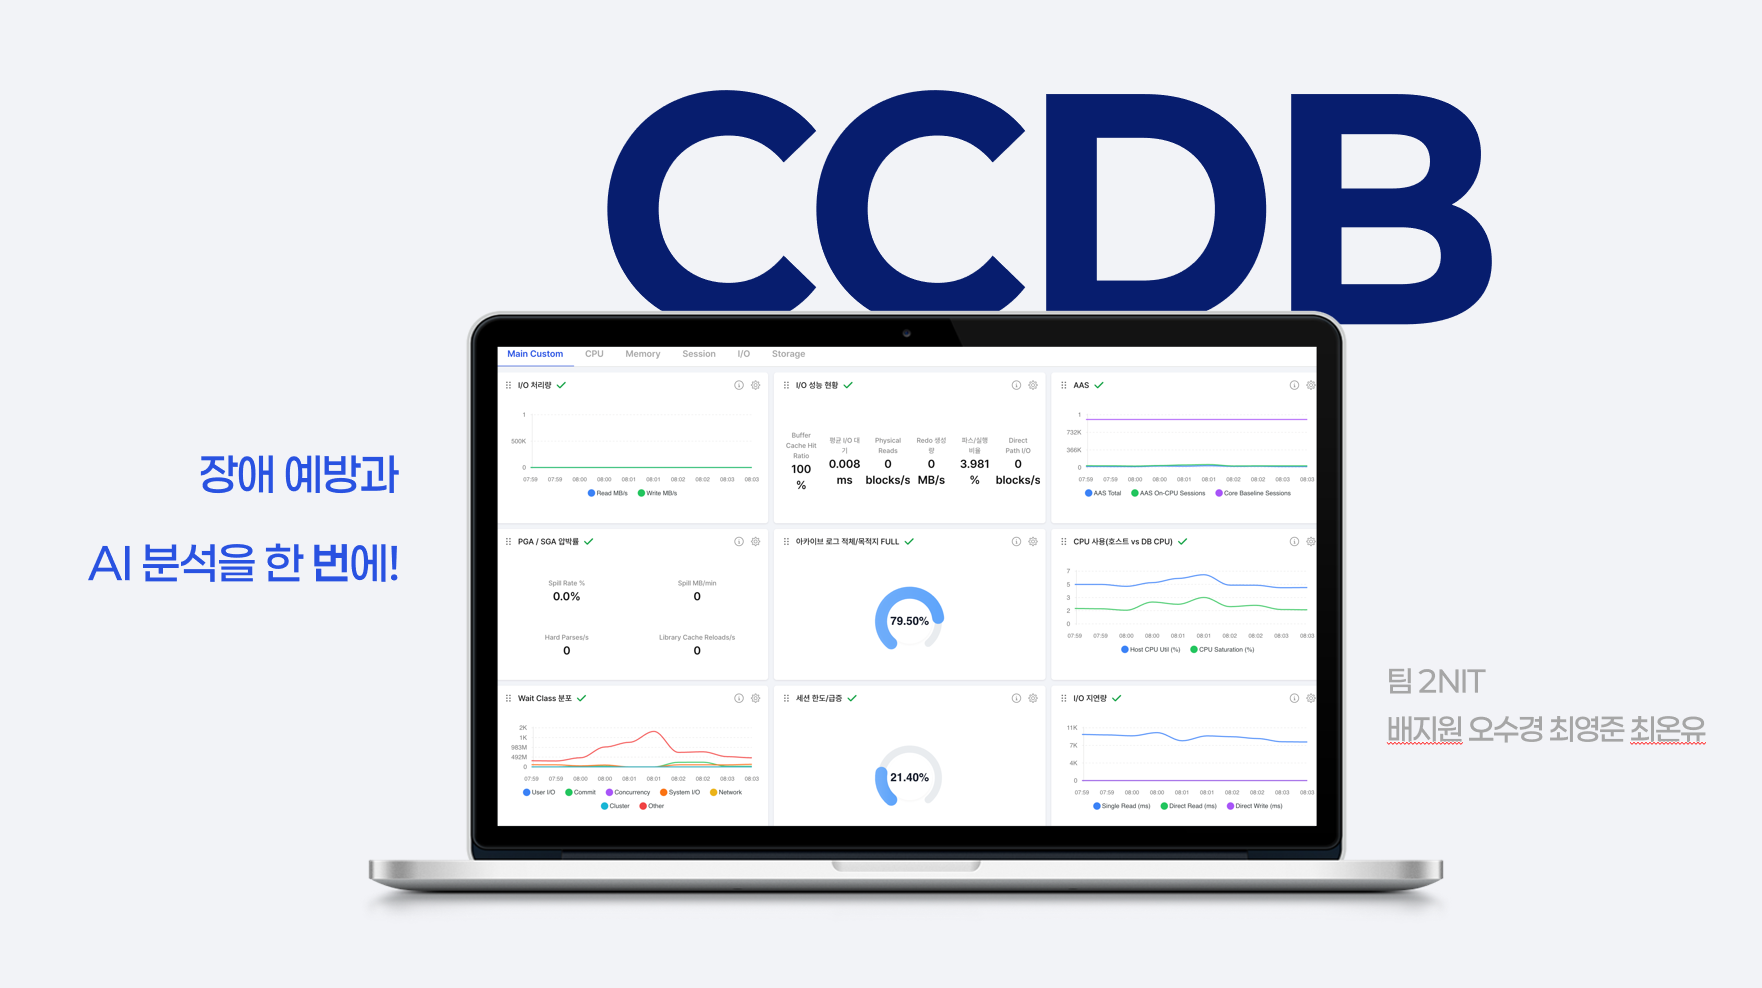
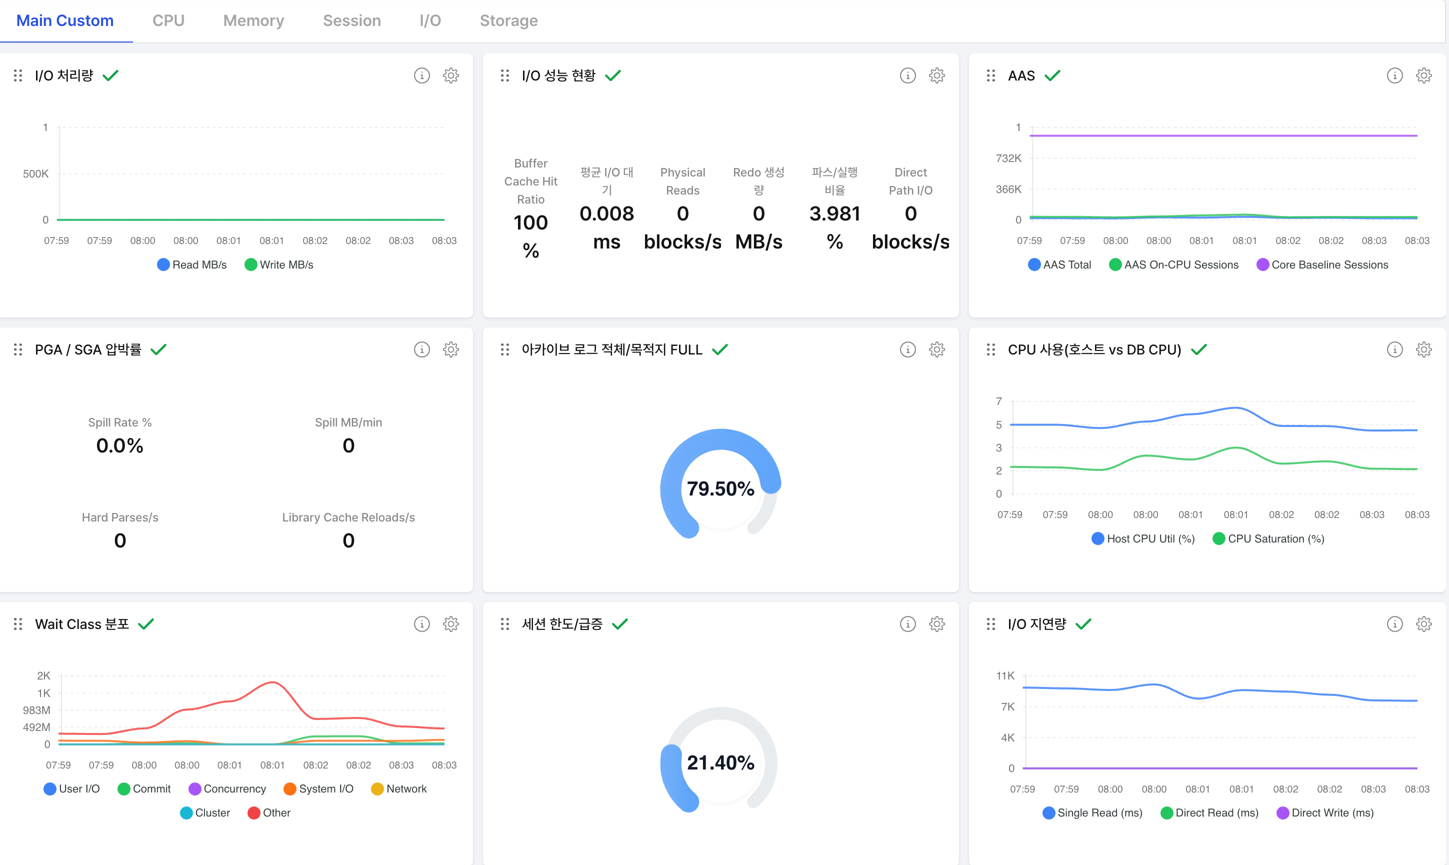
fix: change image file url

diff --git a/README.md b/README.md
@@ -2,7 +2,7 @@
 
 #### Oracle, Java, React 를 활용한 데이터베이스 모니터링 웹 서비스입니다. <br />
 
-![프로젝트 소개](src/assets/readme/image-3.png)
+![프로젝트 소개](src/assets/readme/image-2.png)
 
 ## 📌 Intro
 
@@ -12,7 +12,7 @@
 
 ## 🖥 Screen
 ### 대시보드 
-![대시보드 화면 1](src/assets/readme/image-2.png)
+![대시보드 화면 1](src/assets/readme/image-3.png)
 ![대시보드 화면 2](src/assets/readme/image-4.png)
 
 ### SQL 
